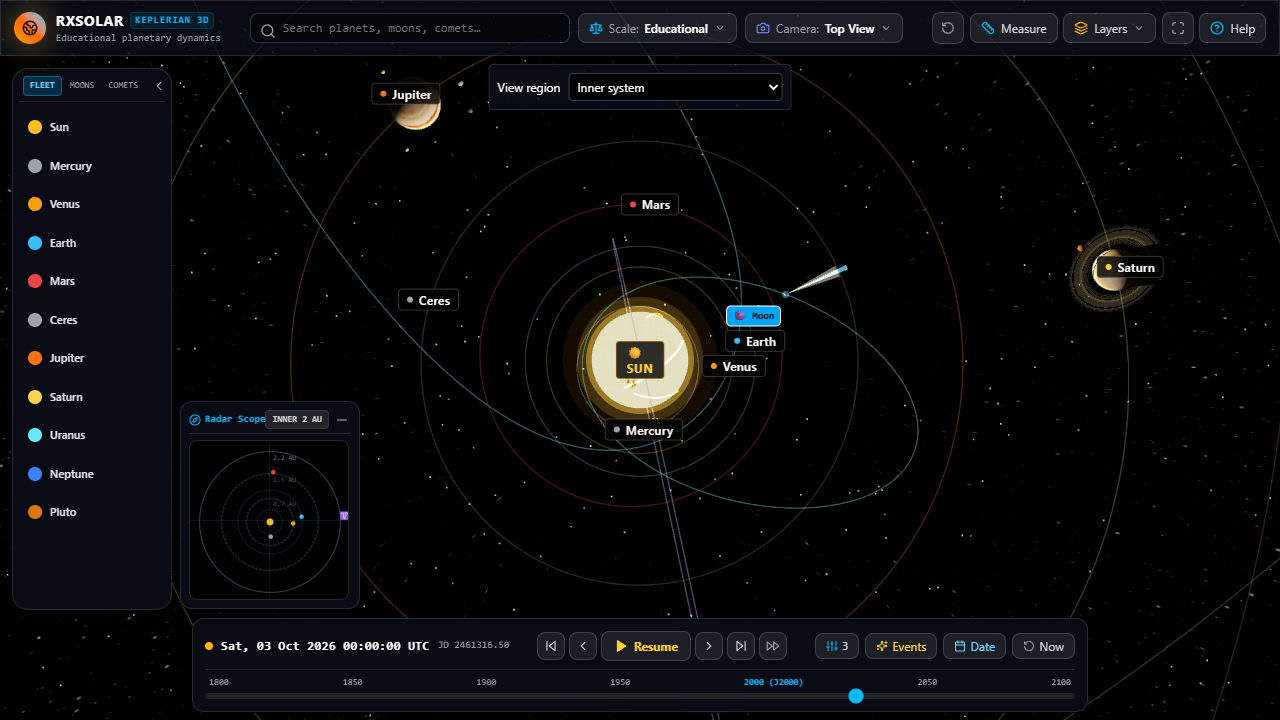
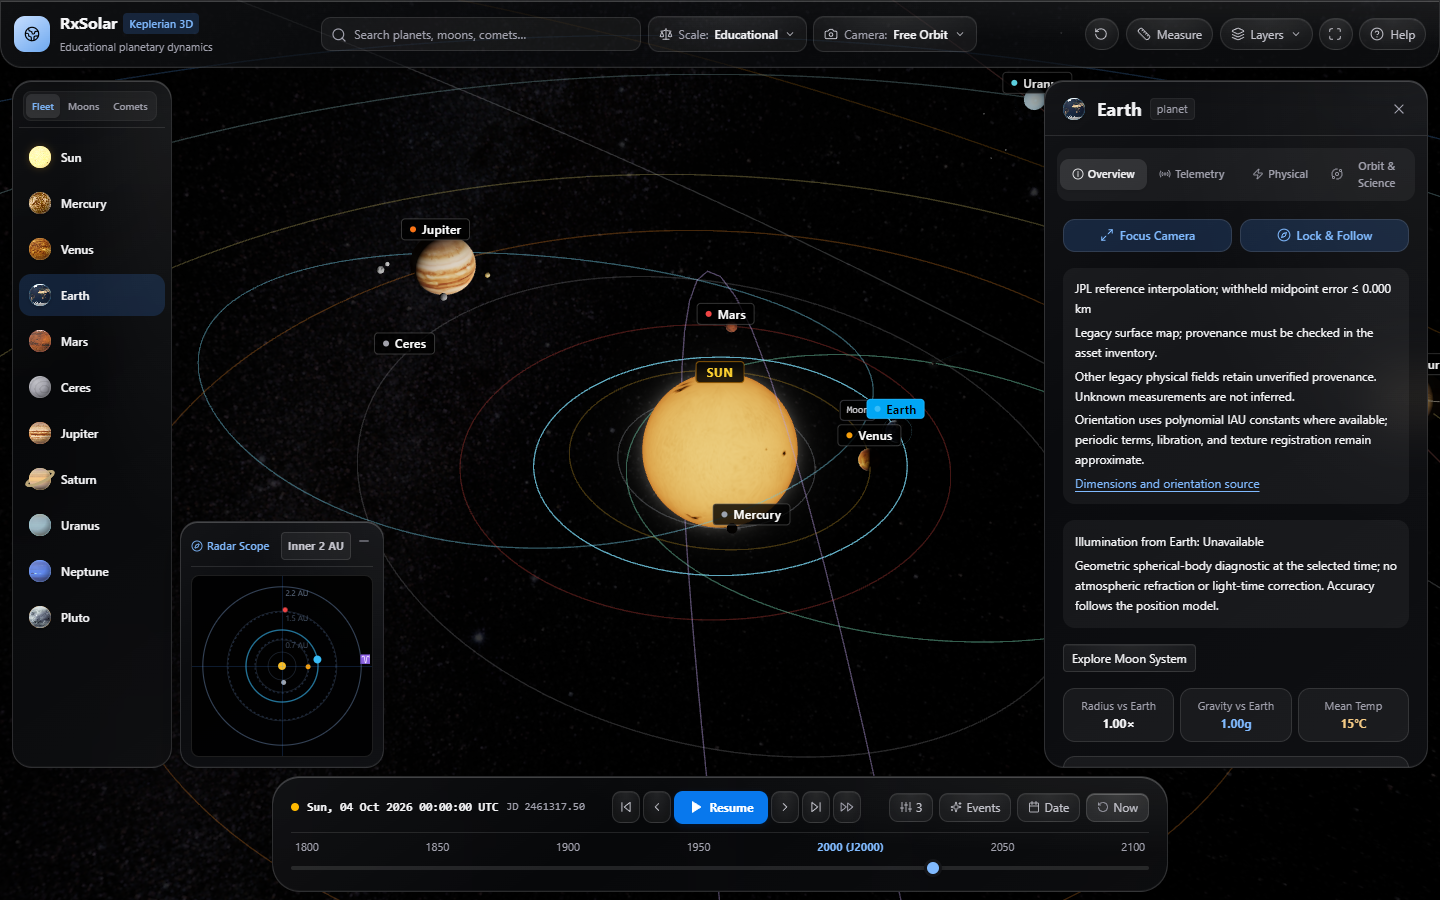
fix: update overview image for improved clarity and context

diff --git a/README.md b/README.md
@@ -1,240 +1,90 @@
 # Interactive Solar System
 
-A browser-based 3D solar system simulator built with React, TypeScript, and Three.js. Explore celestial bodies, control simulation time, compare display scales, and inspect orbital and physical properties through an interactive space-themed interface.
+RxSolar is a browser-based 3D solar system simulator built with React, TypeScript, and Three.js. Select celestial bodies, control simulation time, inspect orbital data, and measure distances across the solar system.
 
-![Paused inner-system overview at October 3, 2026 UTC](docs/images/overview.png)
+![RxSolar showing the inner planets, body inspector, radar, and timeline](docs/images/overview.png)
 
 ## Features
 
-- Explore the Sun, eight planets, five dwarf planets, 15 moons, and three comets.
-- Calculate orbital positions using Kepler's equation, explicit catalog epochs, and fixed orbital elements.
-- Play, pause, reverse, and step through simulation time, with speed presets from real time to ten simulated years per second.
-- Choose a date or jump to historical event dates.
-- Switch between educational, hybrid, and real display scales.
-- Navigate with free, focus, follow, top, and ecliptic camera modes.
-- Search for celestial bodies and inspect their physical properties and orbital telemetry.
-- Measure physical distances and light-travel times between catalog bodies, including parent-relative moons.
-- Toggle orbit paths, labels, moons, lighting, the habitable zone, asteroid and Kuiper belts, and a distance grid.
-- View planetary textures, atmospheric glow, Earth clouds and night lights, planetary rings, and comet tails.
-- Use an orbital radar to locate and focus on major planets.
+- **Body navigation:** planets, dwarf planets, moons, and comets, with search, textured thumbnails, moon filters, and satellite-system views.
+- **Camera controls:** Free Orbit, Focus, Lock & Follow, Moon System, Top View, and Ecliptic views. Camera flights start from the current view and preserve manual zoom after arrival.
+- **Time controls:** UTC dates from 1800 to 2100, playback speeds, reverse motion, day stepping, and mission and astronomical event presets.
+- **Measurements and telemetry:** physical distances, light-travel times, orbital properties, and body-specific source and accuracy information.
+- **Eclipse models:** solar, annular, and lunar eclipses with shadow alignment and observer views, a phase slider, and play/pause controls.
+- **Scene layers:** orbit paths, celestial labels, moons, lighting, the habitable zone, belts, a distance grid, and an orbital radar.
+- **Responsive interface:** translucent panels, light and dark themes, keyboard-accessible controls, and layouts for desktop, tablet, and mobile.
 
-## Technology
+The app runs entirely in the browser. No backend, database, or API key is required. Scientific data and textures load from bundled assets; simulation state resets when the page reloads.
 
-| Layer | Tools |
-| --- | --- |
-| Application | React 18, TypeScript |
-| 3D rendering | Three.js, React Three Fiber, Drei |
-| Styling | Tailwind CSS 4, PostCSS |
-| Icons | Lucide React |
-| Development and builds | Vite |
+## Run locally
 
-The application runs in the browser without a backend or database. Simulation state is held in memory and resets when the page reloads. Texture assets are included in the repository. The interface uses system fonts and follows the device's light or dark appearance, reduced motion, reduced transparency, and increased contrast preferences.
-
-## Getting started
-
-You need Node.js 24 LTS and npm, plus a modern browser with WebGL 2. Use the version in .nvmrc. Styling requires Chrome 111+, Safari 16.4+, or Firefox 128+.
+Use **Node.js 24** (see [.nvmrc](.nvmrc)), npm, and a browser with WebGL 2 support.
 
 ```bash
-git clone https://github.com/rupeshbhusare77/interactive_solar_system.git
+git clone --branch dev https://github.com/rupeshbhusare77/interactive_solar_system.git
 cd interactive_solar_system
 npm ci
 npm run dev
 ```
 
-Open the URL printed by Vite, normally `http://localhost:5173`. Access to the repository is required to clone it while it is private.
+Open the URL printed by Vite, normally `http://localhost:5173`.
 
-### Production build
+## Controls
+
+| Action | Control |
+| --- | --- |
+| Orbit the camera | Left-drag or one-finger drag |
+| Pan | Right-drag or two-finger drag |
+| Zoom | Mouse wheel or pinch |
+| Select and focus | Click a body, choose a search result, or use the body dock |
+| Inspect a body | Use the information panel; tap **Details** on mobile |
+| Change time | Use the bottom timeline, **Date**, or **Events** |
+| Change the scene | Use **Layers**, the scale selector, and camera modes; open settings on mobile |
+
+The initial view uses Educational scale and Free Orbit, with Earth selected. Playback starts at three simulated days per real second. Pause before comparing dates or measurements. **Help** contains the in-app guide.
+
+Camera animation initially follows the device's reduced-motion preference. Enable or disable **Layers → Smooth camera transitions** to override it.
+
+## Display scales
+
+| Mode | Display behavior |
+| --- | --- |
+| Educational | Larger calibrated bodies and gently compressed orbital distances. |
+| Hybrid | Smaller bodies and logarithmic spacing that compresses outer orbits more strongly. |
+| Real (1:1) | Body radii and distances use the same physical conversion: 250 scene units per AU. |
+
+Compare spacing in Free Orbit or Top View. Focus and Follow frame the selected body, so close-ups can look similar across scales. Real-scale bodies are very small compared with their orbital distances; use Focus to inspect them. Numerical measurements always use physical coordinates, independent of display scale.
+
+## Build and test
 
 ```bash
 npm run build
 npm run preview
 ```
 
-The build command checks TypeScript and generates the production site in `dist/`. The preview command serves that build locally. An alternative local server is available through `node serve.js` after building.
+The build checks TypeScript and writes the production site to `dist/`. Preview serves it locally on port 5173. The included `wrangler.json` configures Cloudflare Workers Static Assets to serve this directory. Use the root build above for that deployment.
 
-Development, preview, and the custom server are configured to use port 5173. Run one server at a time. Uploading the repository to GitHub stores the source code; hosting the live application requires a separate deployment.
-
-## Controls
-
-| Action | Control |
-| --- | --- |
-| Rotate the camera | Left-click and drag |
-| Pan the camera | Right-click and drag |
-| Zoom | Mouse wheel or pinch gesture |
-| Select a body | Click its surface or use the search field |
-| Focus on a body | Use the quick dock or a focus action |
-| Change the viewpoint | Use the camera mode selector |
-| Control time | Use the bottom timeline controls |
-| Change display options | Use the header's view controls |
-| Inspect measurements | Open the measurement panel |
-| Read the in-app guide | Open Help |
-
-The simulation initially plays at three simulated days per real second, with Earth selected and educational scale enabled.
-
-## Display scales
-
-| Mode | Behavior |
-| --- | --- |
-| Educational | Compresses orbital distances and uses calibrated body sizes for easier exploration. |
-| Hybrid | Uses logarithmic distance compression with slightly smaller calibrated body sizes. |
-| Real | Uses a consistent physical conversion for orbital distances and spherical body radii: 250 world units per AU. |
-
-In real mode, planets are tiny compared with the distances between them. Use Focus to inspect individual bodies. Labels, decorative effects, the distance grid, and belt particle sizes remain illustrative.
-
-## Project structure
-
-```text
-public/textures/          Local planetary and sky texture assets
-src/
-  astronomy/             Body catalog, constants, orbital calculations, and scaling
-  components/
-    canvas/              3D bodies, orbits, effects, belts, and camera controls
-    ui/                  Header, timeline, information panel, radar, and help
-  state/                 Shared simulation state and React context
-  textures/              Texture loading and procedural texture generation
-  App.tsx                Scene and interface composition
-  main.tsx               React entry point
-  index.css              Global styles and shared interface effects
-serve.js                 Optional local server for the production build
-```
-
-## Verification
-
-Run `npm run build` to check TypeScript and production bundling. Browser verification is needed for visual and interaction changes. A minimal regression suite was restored with the owner's approval for Stage 4. Run npm test for astronomy and static-server checks. Browser regressions run against a fixed UTC date, paused clock, and seeded generated assets.
-
-## Scientific scope and known limitations
-
-This project is an educational visualization using fixed orbital elements. It does not model gravitational interactions between bodies, orbital perturbations, or a live precision ephemeris. Historical presets select dates and bodies; they do not recreate spacecraft missions or guarantee observed alignments. The information panel exposes each orbit's epoch, reference plane, provenance, and local model limits.
-
-Dates are entered and displayed in **UTC**. The navigation range is **January 1, 1800 through December 31, 2100**. This is a visualization policy, not a scientific accuracy guarantee. Invalid or out-of-range date submissions retain the previous time and show an error. Calendar changes require **Apply UTC Date**. Playback pauses at either boundary; stepping is clamped to the same limits.
-
-The calculation uses uniform 86,400-second days and treats the UTC timestamp as approximate dynamical time. J2000 is numerically represented by `2000-01-01T12:00:00Z`; the actual astronomical epoch is noon TT. Leap seconds, TT/TDB offsets, and relativistic time corrections are omitted. [JPL's time-scale documentation](https://ssd.jpl.nasa.gov/horizons/manual.html) describes the distinctions required for precision ephemerides.
-
-Orbital arguments are measured from the ascending node, periods are positive, and inclinations encode orbital direction. Physical coordinates use AU in a right-handed world frame `(ecliptic X, ecliptic Z, −ecliptic Y)`. Parent-equator satellite orbits use the parent's static illustrative pole transform; Earth's Moon retains its ecliptic reference. Legacy phases and pole azimuths with no recovered provenance are explicitly marked illustrative. Signed physical rotation periods identify retrograde bodies; rendered rotation uses a directed pole without reversing the direction twice.
-
-Comet propagation is local to the sourced perihelion model. Halley's 1986 and Hale-Bopp's 1997 passages were checked during Stage 1; future returns, including Halley in 2061, remain approximate. Static pole directions and arbitrary texture prime meridians do not reproduce precise surface orientation, seasons, lunar phases, eclipses, or the day/night terminator. Do not use this model for observation or mission planning; use [JPL Horizons](https://ssd.jpl.nasa.gov/horizons/) for precision states.
-
-The fixed Earth orbit was compared against an independent implementation of [JPL's Table 1 model](https://ssd.jpl.nasa.gov/planets/approx_pos.html), which includes element rates. The reference is the Earth–Moon barycenter, rather than Earth's center. These samples measure differences between two approximate models; they are not a guaranteed error bound against observations or Horizons.
-
-| UTC sample | Position difference |
-| --- | --- |
-| January 1, 1900, 12:00 | Approximately 130,873 km |
-| January 1, 2000, 12:00 | Approximately 2,310 km |
-| October 3, 2026, 00:00 | Approximately 21,081 km |
-| January 1, 2050, 12:00 | Approximately 61,968 km |
-
-These comparisons were recorded during Stage 1 verification. The test fixtures and reference generator were subsequently removed at the project owner's request.
-
-- Moon rendering, camera tracking, measurements, and information-panel distances use shared parent-relative positions. Their numerical consistency does not establish observed phase accuracy for illustrative satellite records.
-- Educational and hybrid scales deliberately change visual proportions and spacing. Numerical measurements use physical coordinates before display scaling.
-- The measurement line mounts only while the measurement panel is open.
-- Missing texture maps recover in place with procedural or neutral replacements. Loading and fallback status are visible; failed graphics contexts offer a scene retry.
-- Stars, procedural textures, and belt particles use random generation, so their appearance can vary between sessions.
-
-## Repository contents
-
-Keep application source, `public/` assets, configuration files, `package.json`, and `package-lock.json` in version control. The `.gitignore` excludes installed dependencies, generated builds, coverage, environment files, logs, personal editor settings, and the local project context file. Sanitized `.env.example` files can be tracked if environment configuration is introduced later.
-
-## First exploration
-
-Pause the timeline, search for Earth, and select Focus Camera. Switch between educational and real scale to compare visible proportions. Open Measure and choose Earth ⇄ Moon to inspect physical distance independently of display scale. Top View and Ecliptic expose an inner/outer/full region selector. On phones, camera and scale settings are in the settings drawer.
-
-## Release validation
+Run the automated checks with:
 
 ```bash
-npm ci
 npm run check
-npm audit --audit-level=high
 npx playwright install chromium
 npm run build -- --base=/interactive_solar_system/
 npm run test:browser
 ```
 
-The screenshot above was captured from the production build at 1280 × 720, paused at October 3, 2026 UTC with seeded generated assets.
+Browser tests expect the subfolder build shown above and start their own server on port 5175. They cover navigation, camera motion, eclipse playback, appearance, responsive layouts, and asset recovery. An installed Edge browser can also be used by setting `PLAYWRIGHT_CHANNEL=msedge`.
 
-The browser suite serves the production build under /interactive_solar_system/ and covers desktop/mobile keyboard search, lunar measurement, guide dismissal, camera regions, and failed-map recovery. CI runs the same checks and uploads dist as a reviewable artifact. Remote CI results require the owner's later push. If the browser download is unavailable, installed Edge can be used locally by setting PLAYWRIGHT_CHANNEL=msedge; CI uses Chromium.
+## Scientific scope
 
-For a root-hosted site, use npm run build without --base. For another subfolder, pass its leading/trailing-slash path through --base. Texture URLs follow Vite's build base. The optional server accepts PORT and BASE_PATH environment variables and binds only to 127.0.0.1. It rejects traversal, sends real asset 404s, revalidates unhashed files, and caches hashed build assets immutably. It is a local preview, not a production hosting service.
+The catalog combines sourced JPL satellite records, NAIF dimensions and orientation constants, and legacy illustrative data. Bundled JPL Horizons vectors provide reference positions for 44 bodies within October 1–9, 2026, subject to each file's actual coverage. Outside that interval, or when reference data is unavailable, the app uses approximate Keplerian propagation. The inspector identifies the active model and its sources.
 
-## Hosting on Cloudflare Workers
+This is an educational visualization, not an observation or mission-planning tool. Fixed orbital elements omit gravitational perturbations; surface orientation and visual effects remain approximate. Eclipse viewers demonstrate physical shadow geometry using idealized alignments. Their event dates do not reconstruct exact eclipse paths, contact times, or local visibility.
 
-The existing Cloudflare project can serve this application using Workers Static Assets. `wrangler.json` identifies the Worker as `interactive-solar-system` and points to the root-hosted production build in `dist/`. Static asset requests are free and unlimited under [Cloudflare's documented pricing](https://developers.cloudflare.com/workers/static-assets/billing-and-limitations/).
+Source records live in `public/science/` and `src/astronomy/generated/`. Refresh scripts are in `scripts/`; review generated changes and rerun the checks after refreshing data. [Asset sources and credits](docs/ASSET_SOURCES.md) document verified maps and unresolved provenance for legacy assets.
 
-Use these settings in **Settings → Builds**:
+## Contributing
 
-| Setting | Value |
-| --- | --- |
-| Build command | `npm run build` |
-| Production deploy command | `npx wrangler deploy` |
-| Preview deploy command | `npx wrangler preview` |
-| Root directory | `/` |
-| Production branch | `main`, after the desired changes and `wrangler.json` have been merged and pushed there |
-| Build variable | `NODE_VERSION=24` |
+Use `dev` for development and keep changes focused. Preserve physical calculations separately from display scaling. For visual bug reports, include the viewport size, scale and camera modes, and a paused UTC date.
 
-Commit, merge, and push changes yourself. Cloudflare deploys the selected branch; uncommitted local files are not included. Keep the Worker URL enabled and leave Access authentication disabled for a public website. After the deployment succeeds, use **Visit** to verify the application. No Worker script, backend, or application secret is required.
-
-`wrangler.json` includes an empty `previews` block required by the preview command. Preview builds use the same static assets and compatibility settings as production.
-
-For a local configuration check without publishing, build first and run `npx wrangler deploy --dry-run`. The following Pages instructions are an alternative hosting setup, not settings for this Worker project.
-
-## Hosting on Cloudflare Pages
-
-The application can be hosted on Cloudflare Pages using its Free plan. Connect the GitHub repository so Cloudflare builds and deploys updates when the selected branch receives a push. Private repositories are supported; the deployed website is publicly accessible by default.
-
-1. Commit and push the changes you want to publish yourself.
-2. Sign in to the [Cloudflare dashboard](https://dash.cloudflare.com/), open **Workers & Pages**, and choose **Create application → Pages → Connect to Git**.
-3. Connect GitHub and grant Cloudflare access to `rupeshbhusare77/interactive_solar_system`.
-4. Select the repository and configure the following settings.
-
-| Setting | Value |
-| --- | --- |
-| Project name | `interactive-solar-system`, or another available name |
-| Production branch | `enhancement` for the current implementation; use `main` once those changes have been merged there |
-| Framework preset | React (Vite) |
-| Build command | `npm run build` |
-| Build output directory | `dist` |
-| Root directory | Leave blank; `package.json` is at the repository root |
-| Environment variable | `NODE_VERSION=24` for production and preview builds |
-
-5. Choose **Save and Deploy**. Cloudflare installs dependencies, builds the site, and provides an HTTPS address ending in `.pages.dev`.
-6. Open that address and verify planet textures, Sun rendering, camera controls, mobile layout, and the measurement panel.
-
-Use the root build command above, without `--base=/interactive_solar_system/`. The GitHub Actions browser checks use a subfolder build for regression coverage; Cloudflare independently creates the root-hosted production build. The existing `.nvmrc` also specifies Node 24. No application secrets, backend, or paid domain are required.
-
-`public/_headers` enables immutable caching only for Vite's content-hashed files in `/assets/`. Surface maps and scientific data retain Cloudflare's default caching behavior so updates at their existing filenames can propagate normally.
-
-Later pushes to the production branch trigger deployment automatically. Other enabled branches receive preview deployments. If you change the release branch, update the production branch in the project's settings. The site is not published merely by adding these instructions to the repository.
-
-Official references: [Git integration](https://developers.cloudflare.com/pages/get-started/git-integration/), [build settings](https://developers.cloudflare.com/pages/configuration/build-configuration/), and [Free plan limits](https://developers.cloudflare.com/pages/platform/limits/).
-
-## Attribution and contribution
-
-[Asset provenance](docs/ASSET_SOURCES.md) lists the local texture files and their verified status. Original image authors, redistribution terms, and download URLs have not been recovered. Existing NASA wording in historical comments is not proof of provenance. Resolve those entries before a public release. No project license has been selected; do not assume permission to redistribute assets.
-
-For contributions, use Node.js 24, install with npm ci, keep changes focused, and run the release checks above. Include a paused UTC date and viewport dimensions when reporting visual defects. Preserve physical calculations separately from illustrative display scaling.
-
-Before release: confirm image redistribution rights, select a project license, configure the Cloudflare Pages project, review the build artifact, and run CI after the owner commits and pushes. Publish only after those owner decisions. No live-demo URL is claimed.
-
-## Sourced celestial systems
-
-The simulator includes 460 JPL mean-orbit satellite records across Earth, Mars, Jupiter, Saturn, Uranus, Neptune, and Pluto. The independently imported discovery catalog lists 293 Saturn moons; 291 have records in the imported orbital table. Missing positions are not invented. Small moons appear as selectable navigation markers, whose point size does not represent a measured radius. Use the planet inspector's moon filter and **Explore Moon System** action to inspect an inner satellite system.
-
-Sixteen additional NASA-hosted mission-image mosaics replace procedural appearances for selected moons. NAIF planetary constants provide measured triaxial dimensions and polynomial pole/rotation models where available. Map coverage, color processing, longitude registration, satellite periodic orientation terms, and Hyperion's tumbling remain approximate or unknown. Existing legacy maps retain their separate provenance limitations.
-
-### Reference positions and accuracy
-
-Bundled JPL Horizons geometric vectors cover October 1–9, 2026 for 44 bodies. Files load from the site's own static assets; browsers never call JPL APIs. Cubic Hermite interpolation uses positions and velocities in J2000 ecliptic coordinates with UT timestamps. Independent withheld midpoint samples have measured errors below 5 km; this is an interpolation validation result, not a bound on observational uncertainty or every possible timestamp. Coverage ends at each body's actual last sample, which may precede October 9 slightly. Outside coverage, or if a file cannot load, the inspector explicitly identifies approximate fixed-element propagation. Daphnis has no available Horizons coverage for this interval.
-
-The inspector reports geometric illumination, parent eclipses at the moon's center, moon transits across the parent disk from Earth, and pair barycenter offsets. Calculations use physical coordinates and spherical radii, independent of display scaling. They do not predict event contact times or include refraction, light-time correction, or terrain. Reference planetary positions already contain the modeled barycentric motion; no second correction is added.
-
-Saturn's rendered D–F rings use circular boundary and gap dimensions from the [NASA PDS Ring-Moon Systems Node](https://pds-rings.seti.org/saturn/saturn_tables.html). Representative optical depths, neutral color, and scattering remain approximations. Faint outer rings and time-variable fine structure are omitted.
-
-### Refreshing the scientific assets
-
-These maintenance scripts use sequential requests and require network access:
-
-- `node scripts/refresh-science.mjs`: refresh JPL catalog and NAIF constants.
-- `node --experimental-strip-types scripts/refresh-ephemerides.mjs`: regenerate bounded reference vectors and withheld checkpoints.
-- `node scripts/refresh-surfaces.mjs`: refresh NASA-hosted moon maps and source hashes.
-
-Review generated data and run `npm run check`, `npm run build`, and `npm run test:browser` after refreshing. Catalogs can disagree in coverage and confirmation status; the UI reports discovery and orbital coverage separately. The current reference files total 0.89 MiB and load on demand.
+No project license has been selected. Consult the asset source records before redistributing bundled images.
